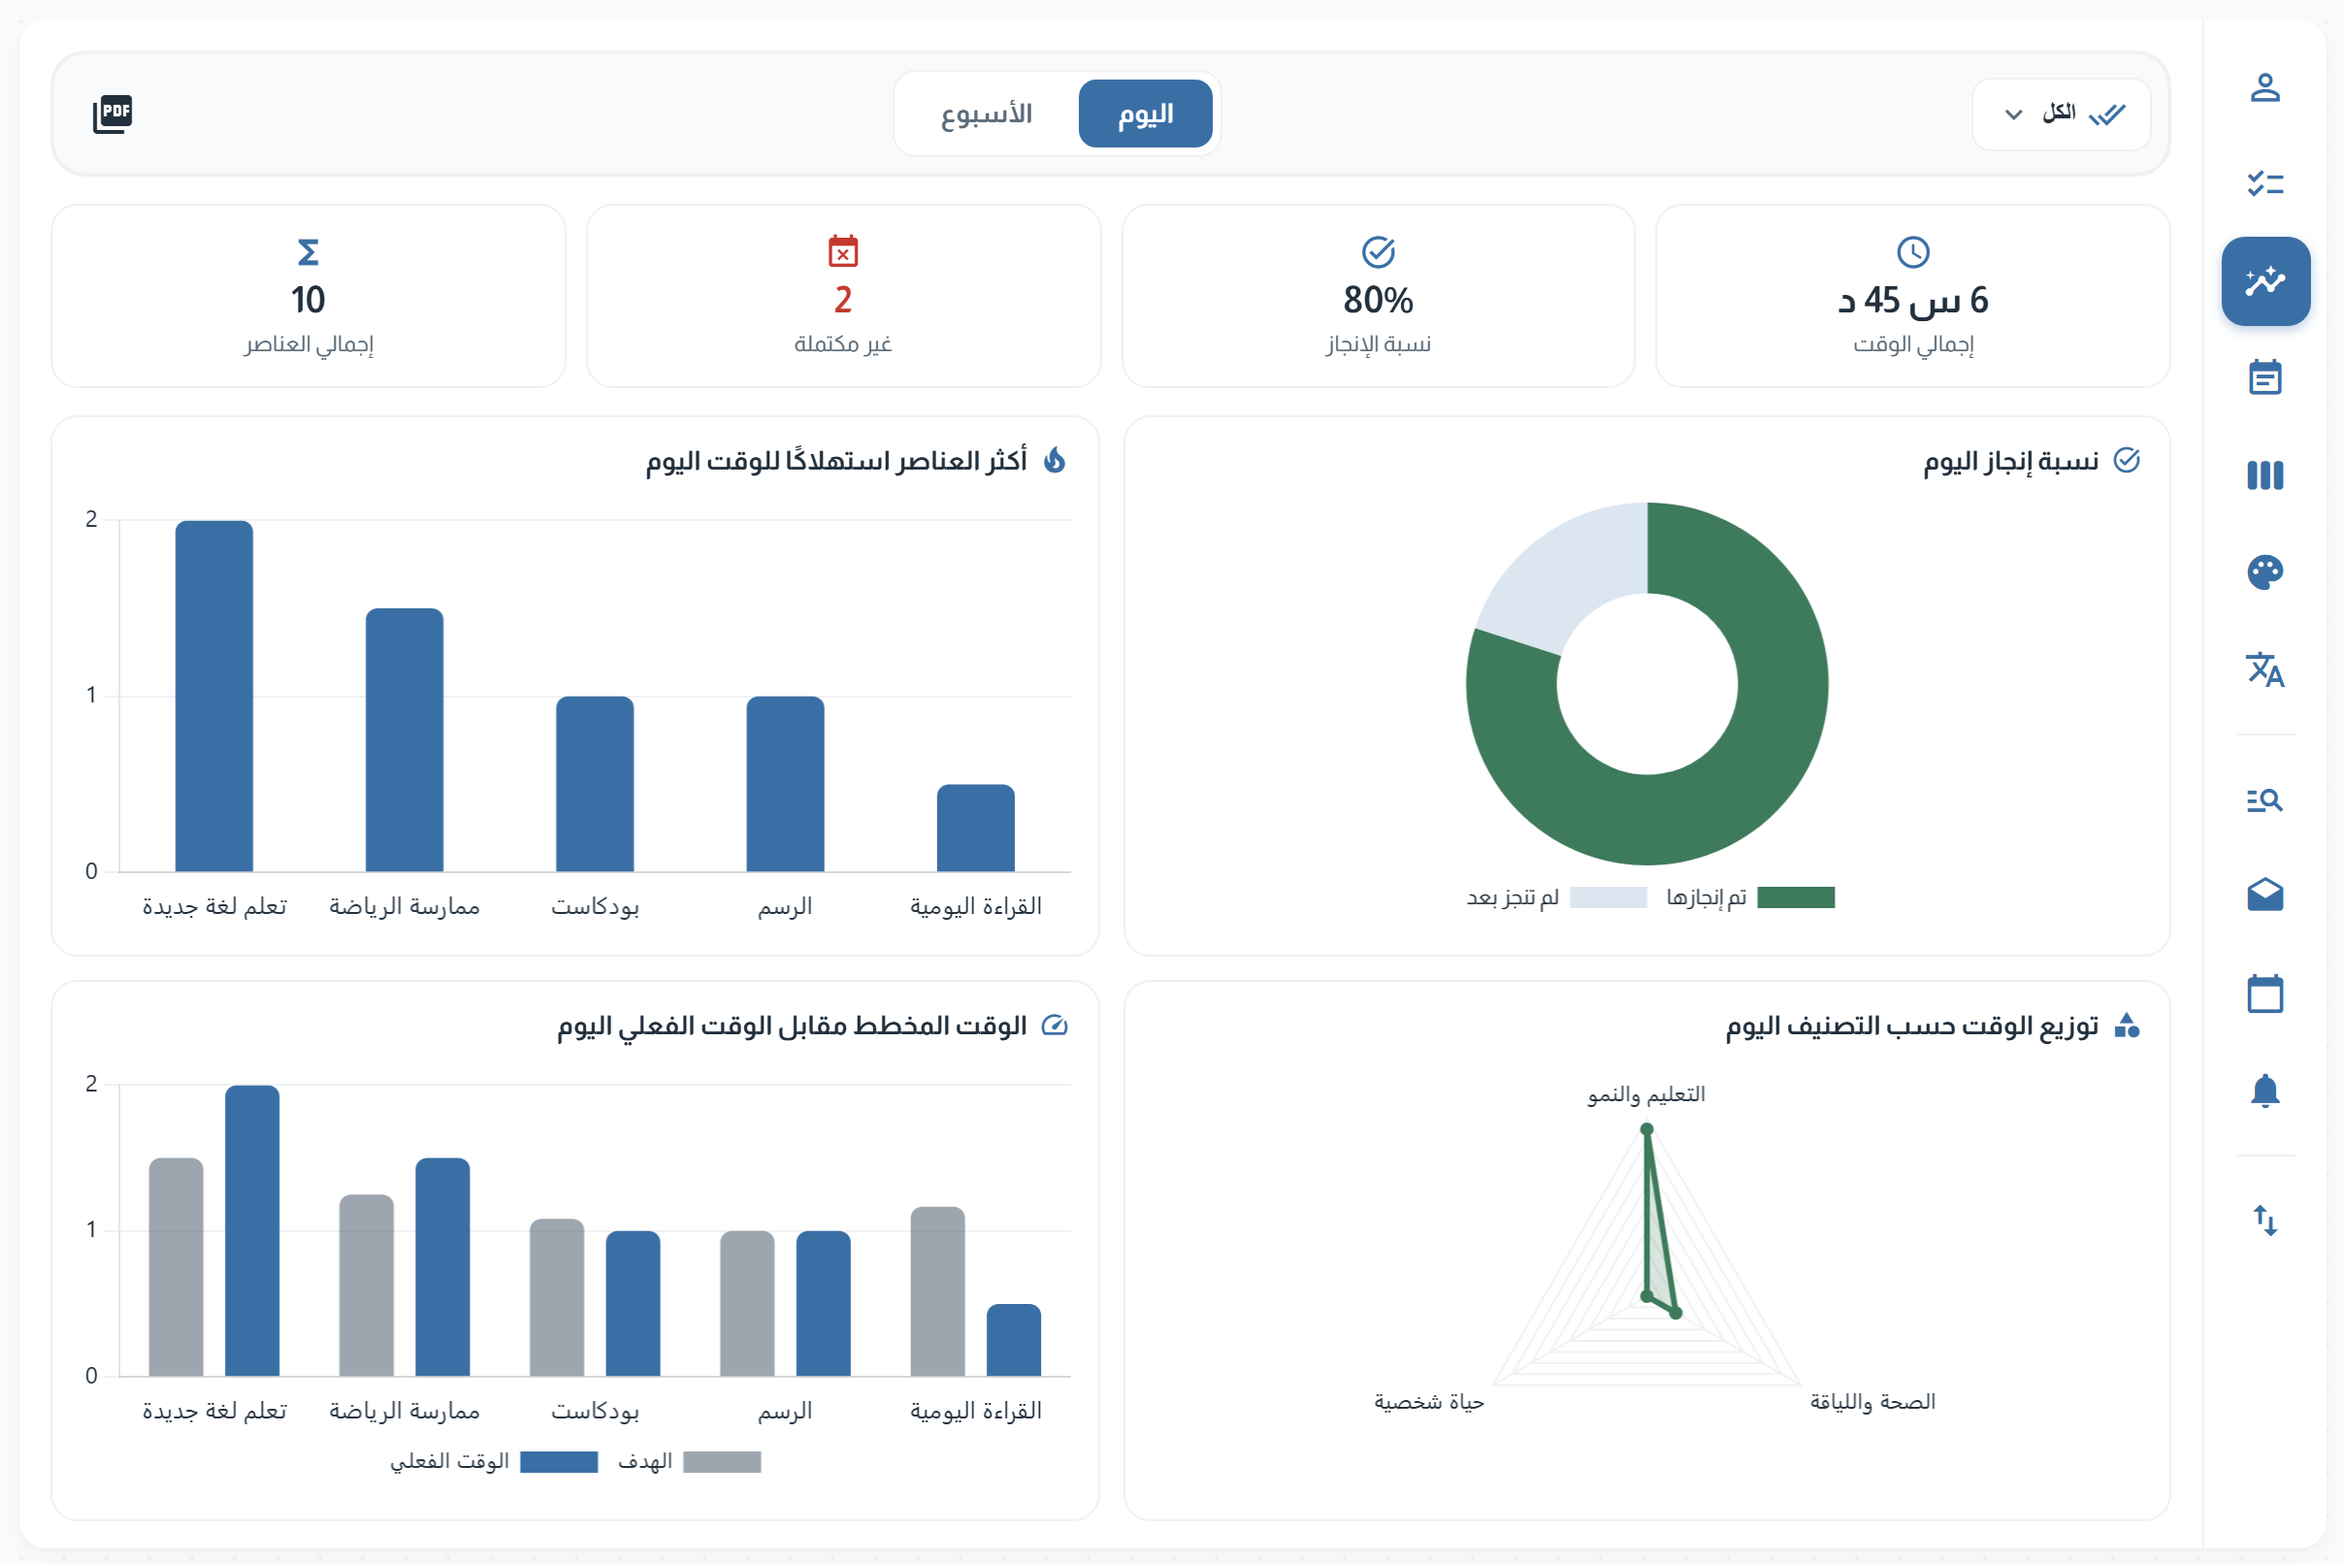
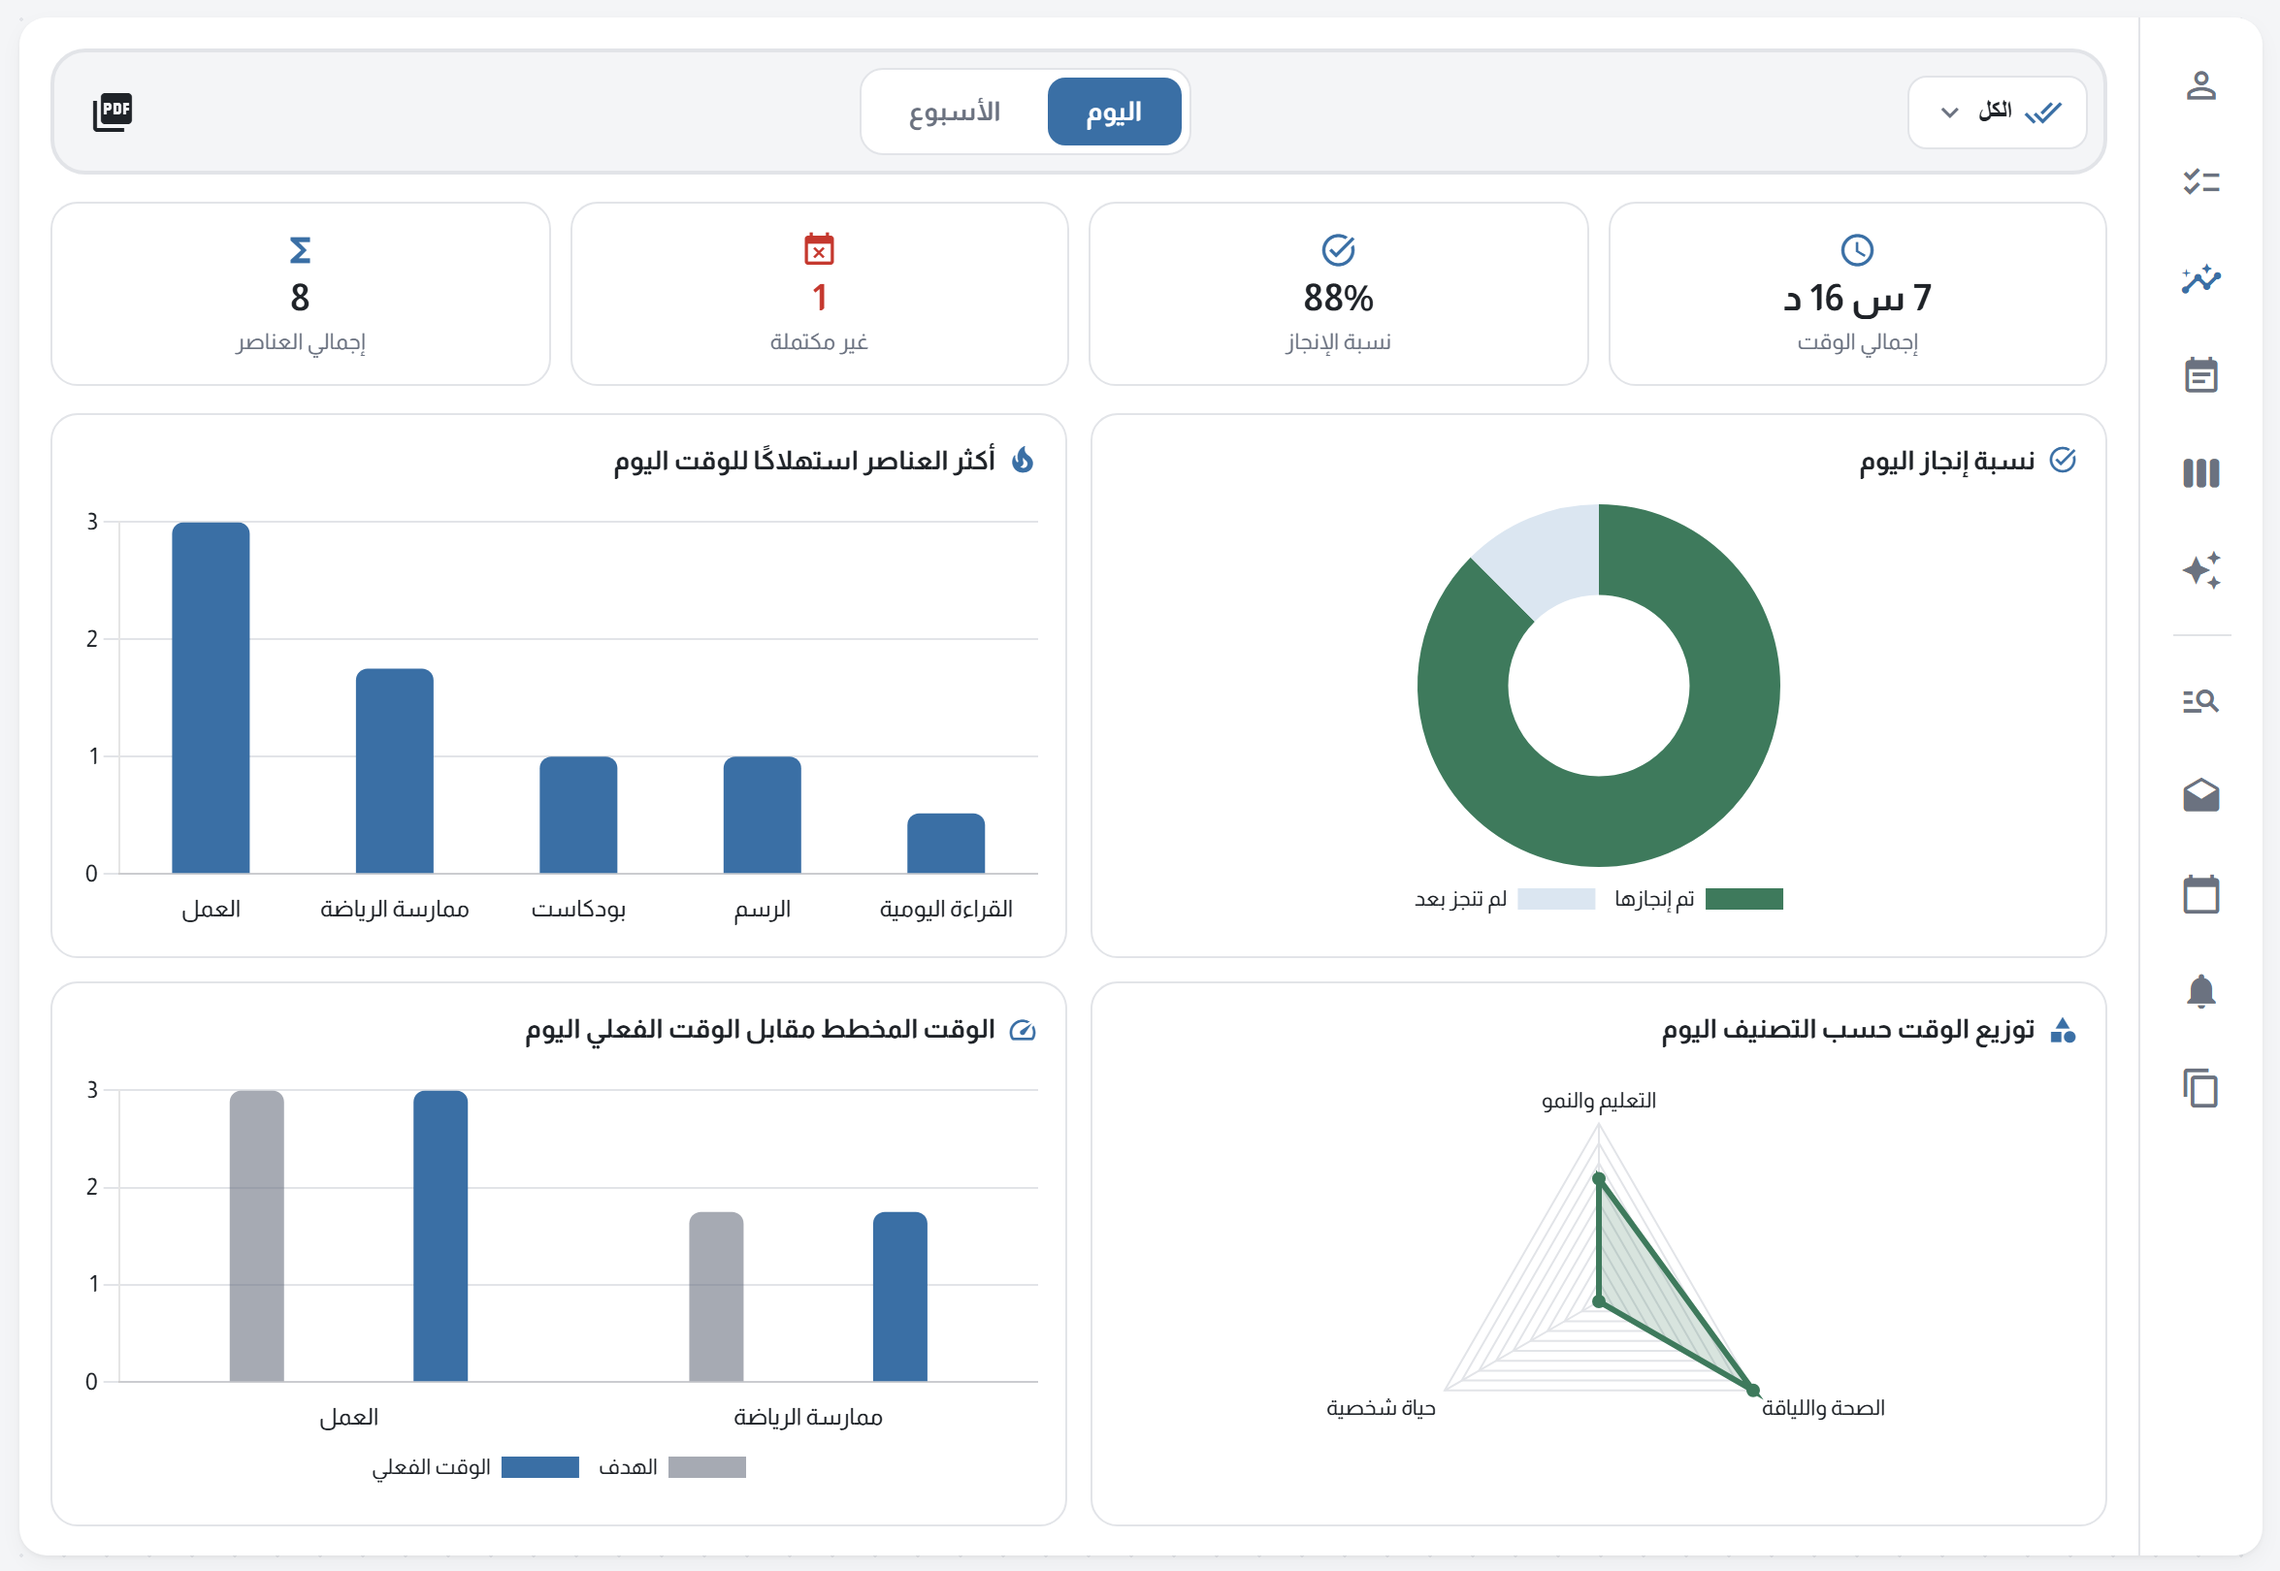
إصلاحات الموبايل: سكرول خارجي + لوحة المهام والتوست فوق الشريط + قائمة المزيد لتحت + تحديث لقطات

diff --git a/app/css/views.css b/app/css/views.css
@@ -170,6 +170,9 @@
 /* ===== السكرول الداخلي =====
    لما الشاشة الكاملة (إحصائيات / الجدول الزمني / عرض الأسبوع / إحصائيات المهمة الواحدة)
    تكون مفتوحة، السكرول بيبقى جوه المحتوى مش على مستوى الصفحة */
+body.locked-view {
+  overflow: hidden;
+}
 body.locked-view .wrap {
   height: calc(100vh - 20px);
 }
@@ -1270,7 +1273,8 @@ body.locked-view .main-col.tb-stretch {
     width: 100%;
     max-height: 70vh;
     border-radius: 16px 16px 0 0;
-    z-index: 50;
+    /* فوق الشريط السفلي الثابت (z60) — كانت بتطلع من تحته */
+    z-index: 70;
     transform: translateY(100%);
     visibility: hidden;
     opacity: 0;

diff --git a/app/css/misc.css b/app/css/misc.css
@@ -156,6 +156,15 @@
   .task-more-dropdown {
     max-width: calc(100vw - 24px);
   }
+  /* قائمة المزيد بتفتح لتحت دايمًا على الموبايل بدل الحساب التلقائي لفوق */
+  .task-more-menu-wrap.open-up .task-more-dropdown {
+    top: calc(100% + 4px);
+    bottom: auto;
+    transform: translateY(-5px);
+  }
+  .task-more-menu-wrap.open-up .task-more-dropdown.open {
+    transform: translateY(0);
+  }
   .task-more-dropdown .priority-popover.open,
   .task-more-dropdown .clock-choice-popover.open,
   .task-more-dropdown .type-popover.open {

diff --git a/app/css/components.css b/app/css/components.css
@@ -1765,6 +1765,15 @@ html[dir="ltr"] .add-arrow-sub.open {
   background: rgba(255, 255, 255, 0.12);
 }
 
+/* الموبايل: التوست فوق الشريط السفلي الثابت (z60) بدل ما يستخبى تحته */
+@media (max-width: 640px) {
+  .toast {
+    bottom: calc(96px + env(safe-area-inset-bottom));
+    z-index: 80;
+    max-width: calc(100vw - 24px);
+  }
+}
+
 :focus-visible {
   outline: 2px solid var(--pen);
   outline-offset: 2px;

diff --git a/app/sw.js b/app/sw.js
@@ -5,7 +5,7 @@
 // رقم الإصدار (CACHE_VERSION) بيتغيّر تلقائيًا مع أي تغيير في المحتوى.
 // ============================================================
 
-const CACHE_VERSION = 'vf0be357228';
+const CACHE_VERSION = 'v753b380685';
 const CACHE_NAME = 'daily-tasks-shell-' + CACHE_VERSION;
 
 const PRECACHE_URLS = [
